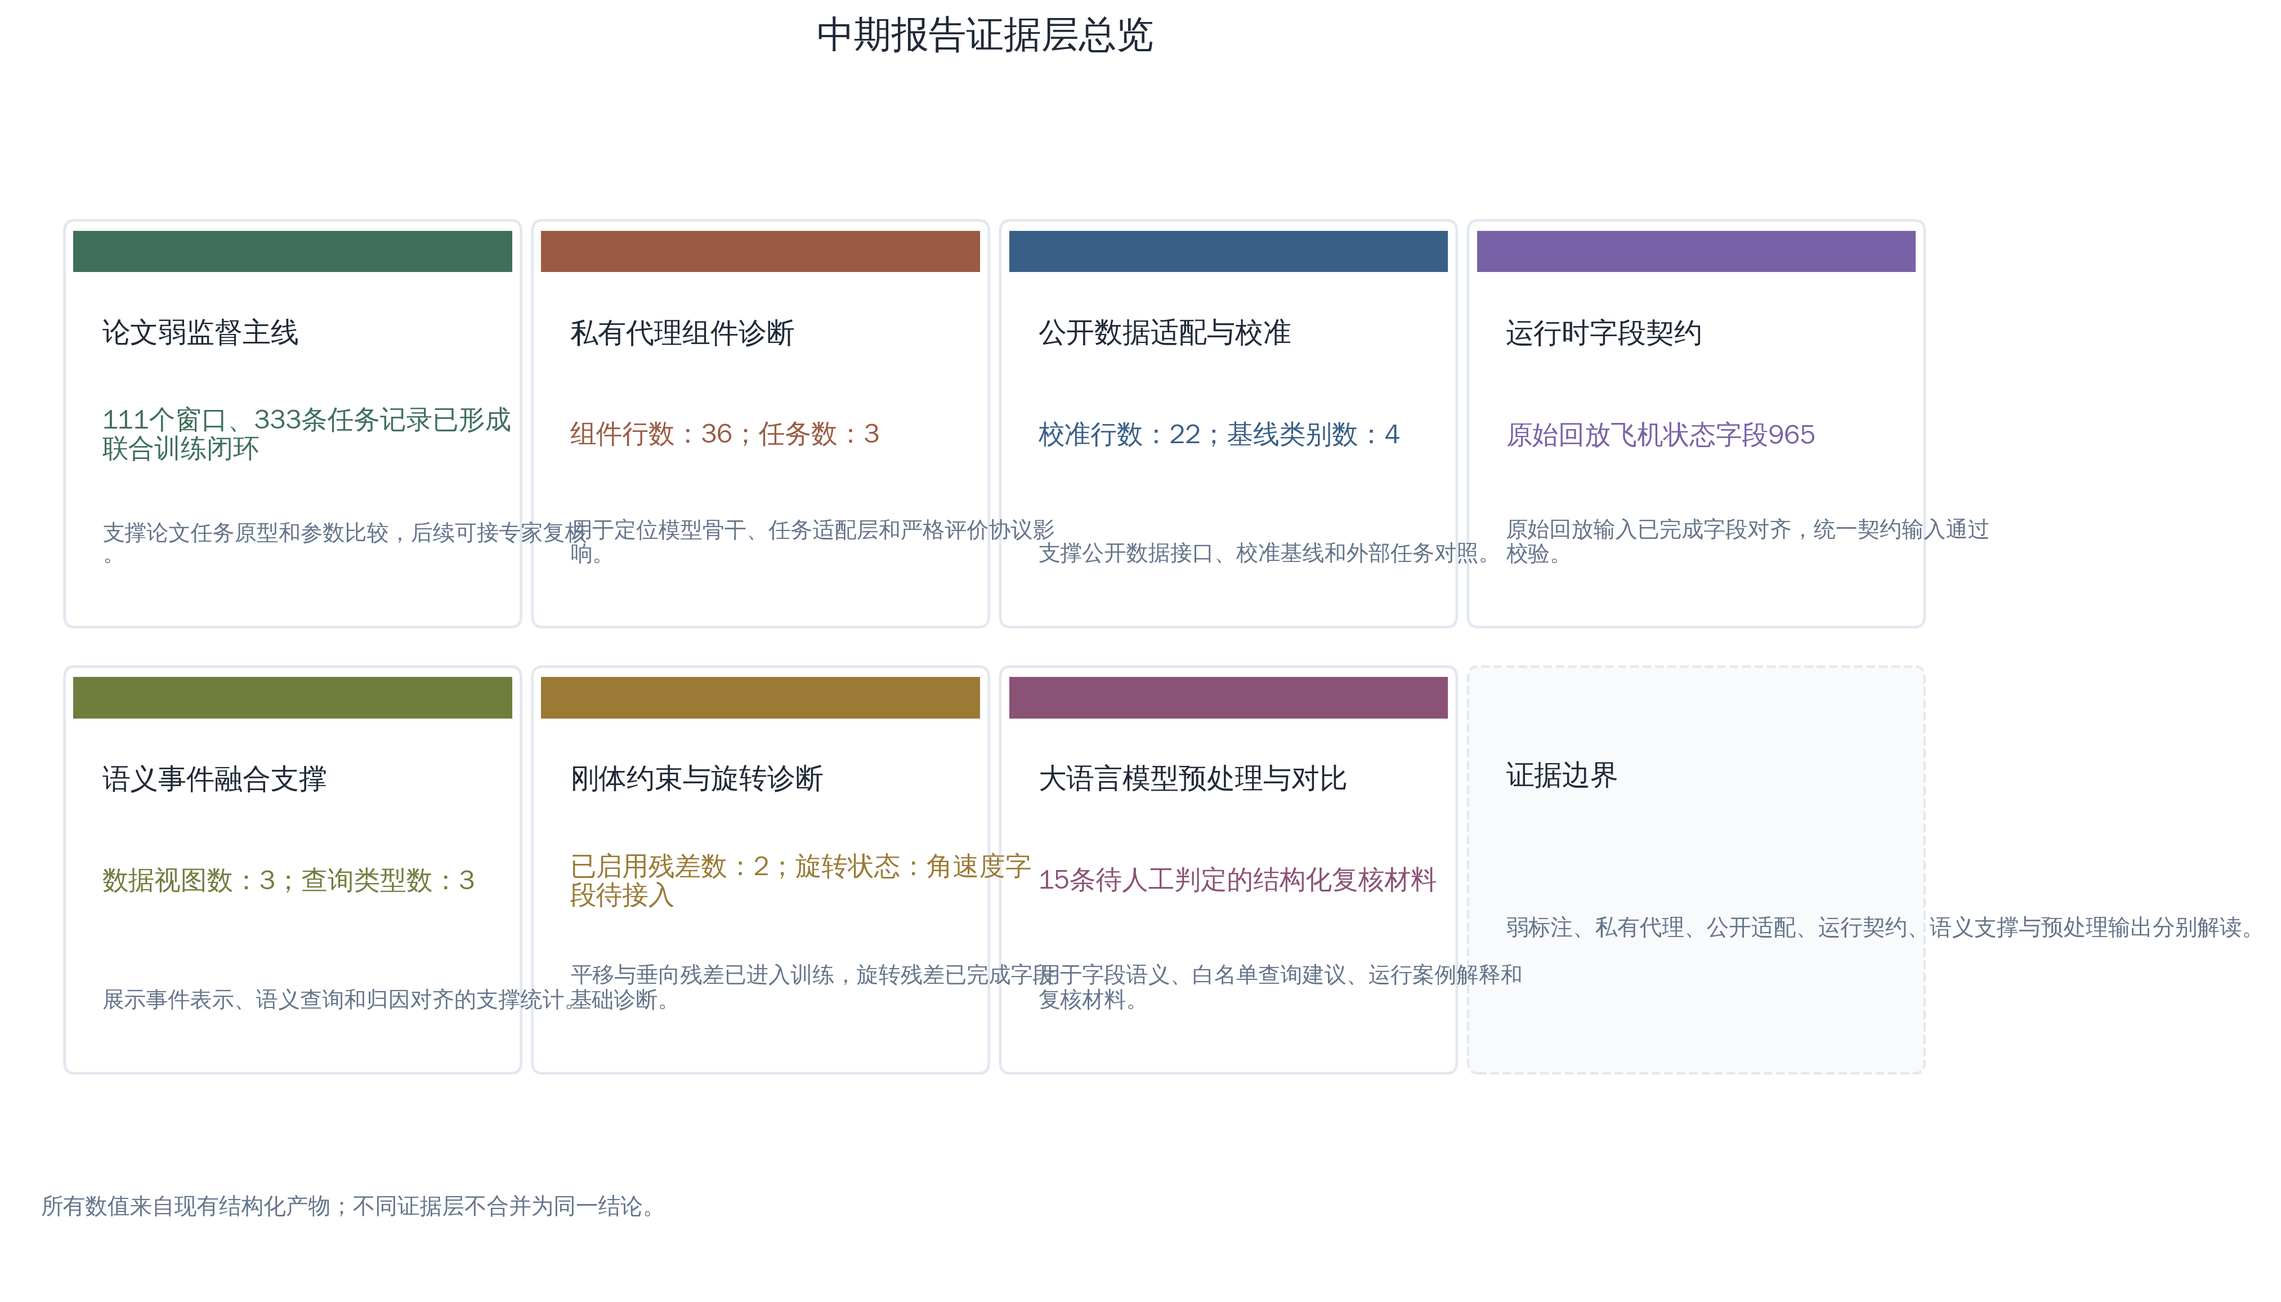
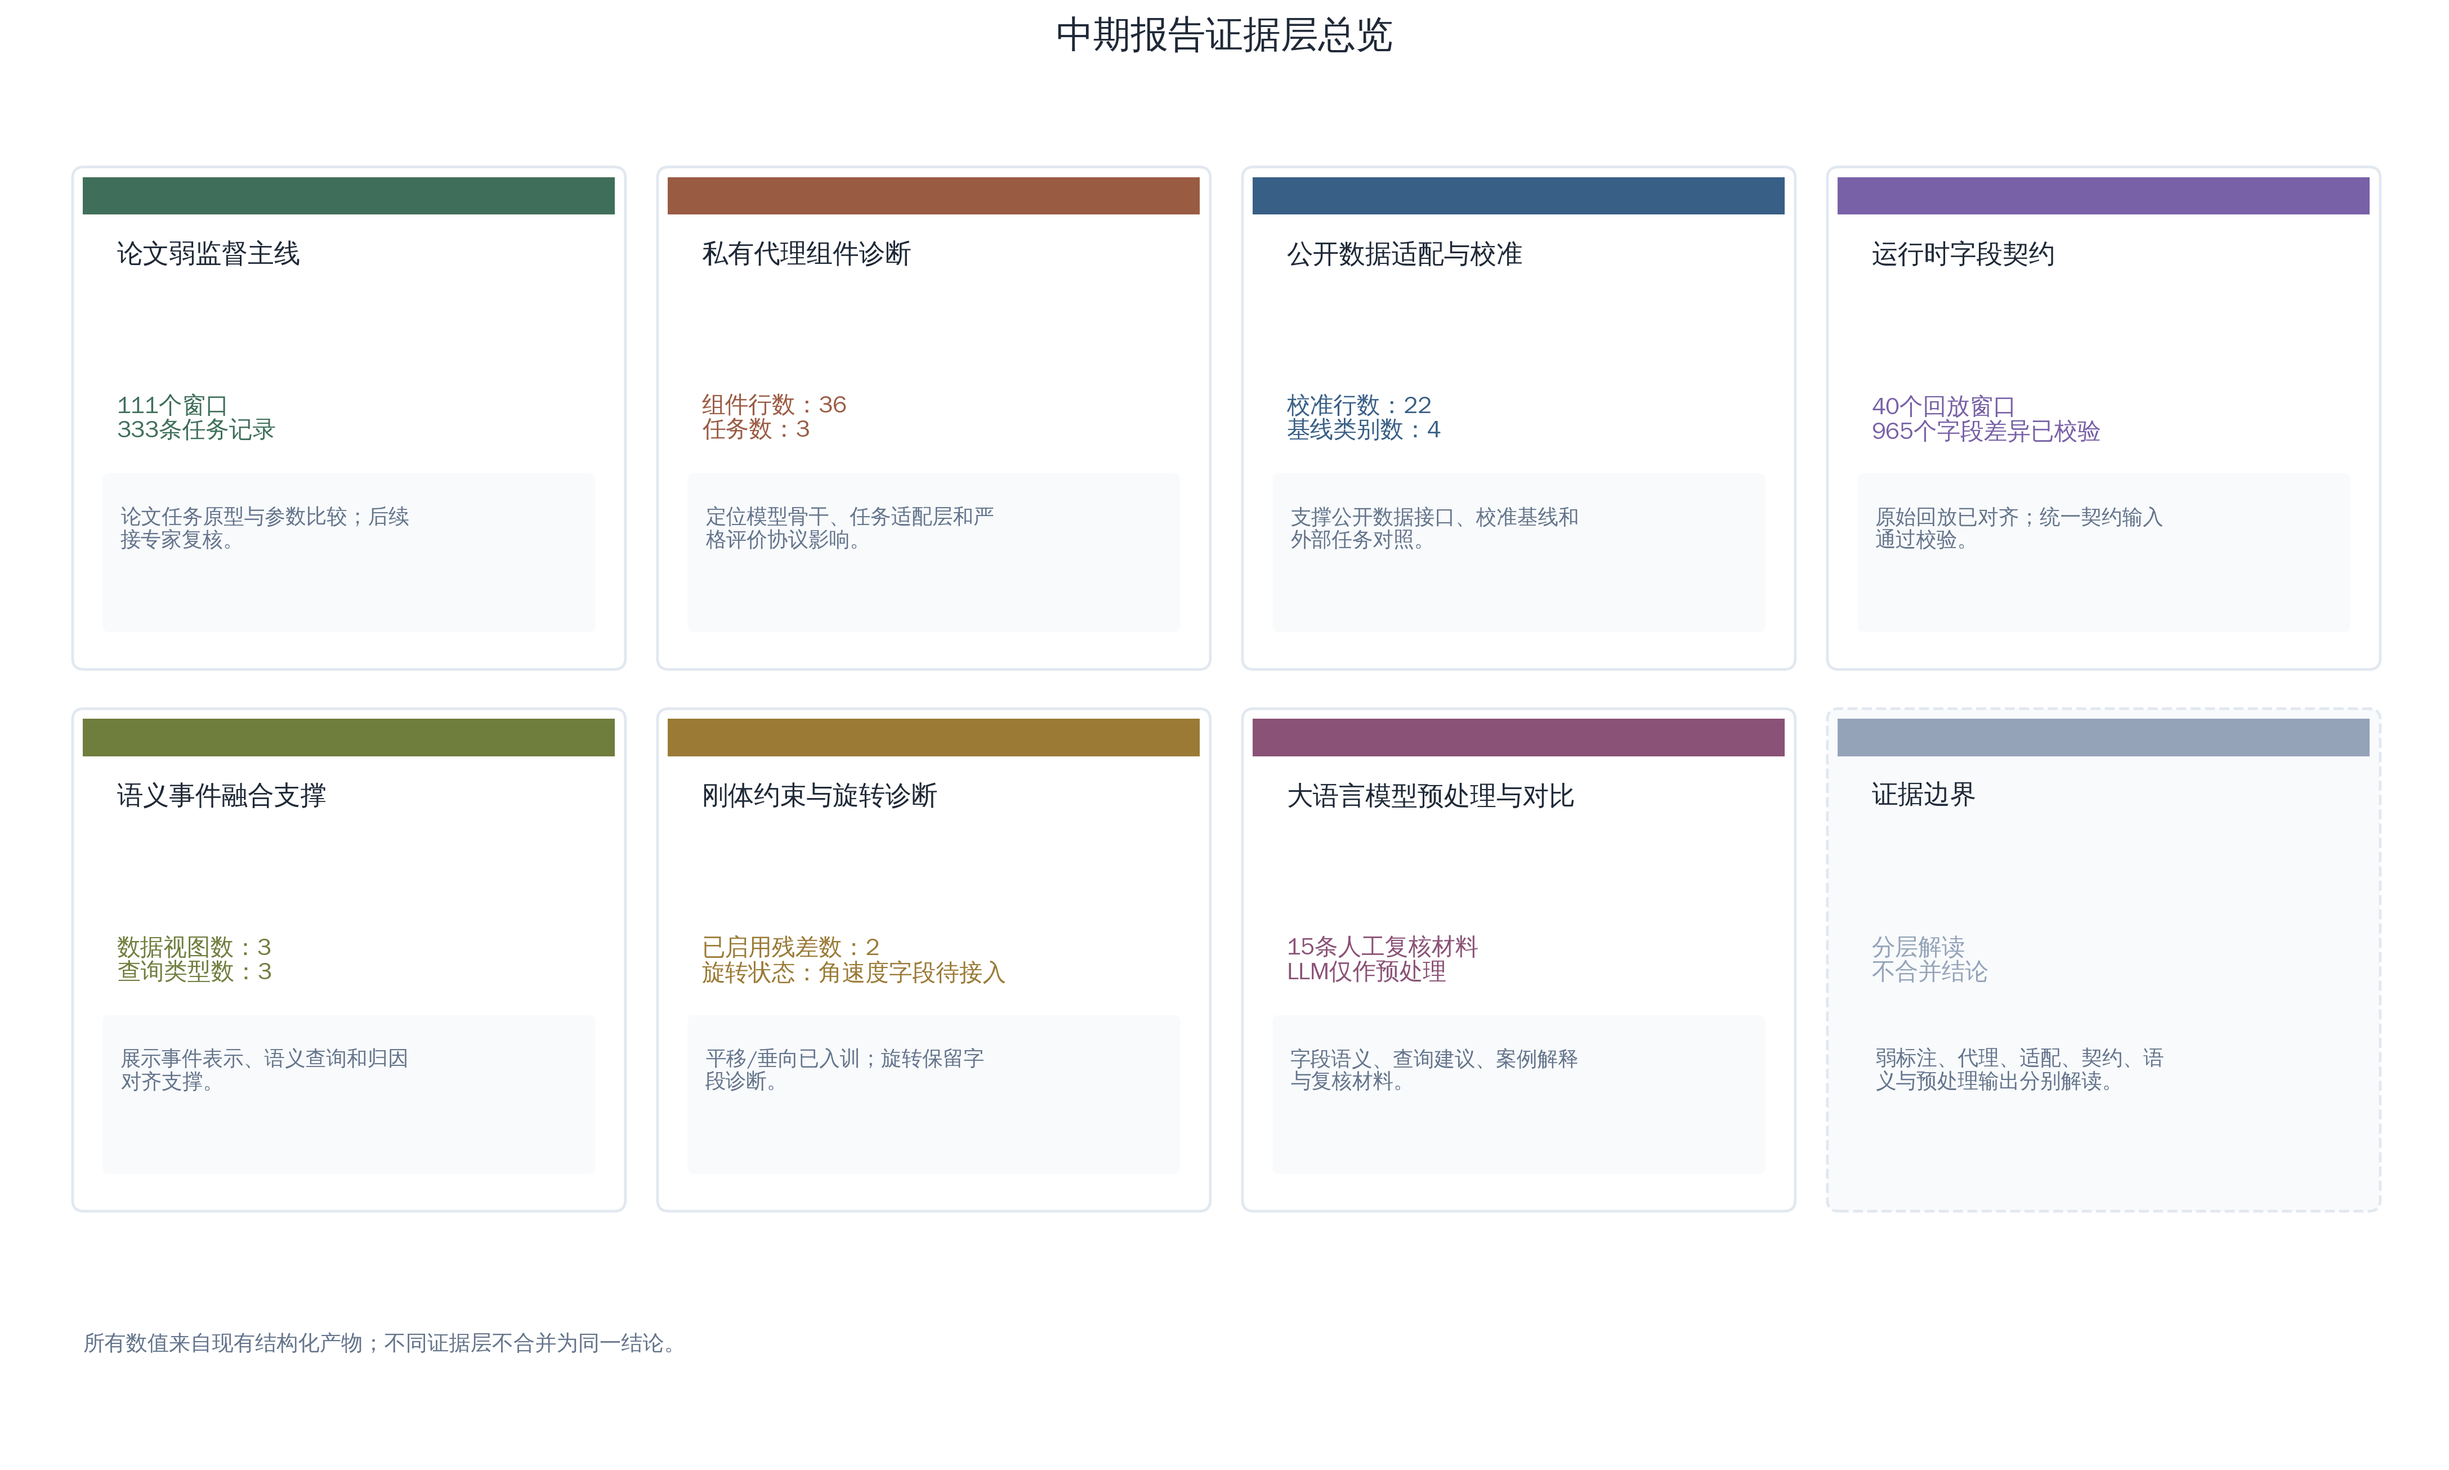
[DOC]update evidence pic

diff --git a/src/chronaris/pipelines/stage_i/evidence/thesis_materials_figures.py b/src/chronaris/pipelines/stage_i/evidence/thesis_materials_figures.py
@@ -104,14 +104,81 @@ def write_thesis_figures(
 def _plot_evidence_layer_overview(path: Path, sources, font, table_paths):
     frame = pd.DataFrame(build_evidence_layer_rows(sources)).sort_values("display_order")
     plt, patches = _import_matplotlib(font)
-    fig, ax = plt.subplots(figsize=(13.8, 7.8))
+    fig, ax = plt.subplots(figsize=(14.6, 8.8))
     ax.set_axis_off()
-    ax.set_xlim(0, 12)
-    ax.set_ylim(0, 6.4)
-    card_w = 2.72
-    card_h = 2.05
-    x_positions = [0.35, 3.25, 6.15, 9.05]
-    y_positions = [3.55, 1.18]
+    ax.set_xlim(0, 12.8)
+    ax.set_ylim(0, 7.35)
+    card_w = 2.82
+    card_h = 2.58
+    x_positions = [0.35, 3.45, 6.55, 9.65]
+    y_positions = [4.25, 1.35]
+
+    def draw_card(
+        *,
+        x: float,
+        y: float,
+        headline: str,
+        quantity: str,
+        role: str,
+        color: str,
+        facecolor: str = "#ffffff",
+        linestyle: str = "-",
+    ) -> None:
+        ax.add_patch(
+            patches.FancyBboxPatch(
+                (x, y),
+                card_w,
+                card_h,
+                boxstyle="round,pad=0.055,rounding_size=0.06",
+                facecolor=facecolor,
+                edgecolor=GRID,
+                lw=1.15,
+                linestyle=linestyle,
+            )
+        )
+        ax.add_patch(
+            patches.Rectangle((x, y + card_h - 0.2), card_w, 0.2, facecolor=color, edgecolor="none")
+        )
+        ax.text(
+            x + 0.18,
+            y + card_h - 0.34,
+            _wrap_text_limited(headline, 12, 2),
+            fontsize=11.2,
+            weight="bold",
+            color=INK,
+            va="top",
+            linespacing=1.1,
+        )
+        ax.text(
+            x + 0.18,
+            y + card_h - 1.16,
+            _wrap_text_limited(quantity, 14, 2),
+            fontsize=10.0,
+            weight="bold",
+            color=color,
+            va="top",
+            linespacing=1.08,
+        )
+        ax.add_patch(
+            patches.FancyBboxPatch(
+                (x + 0.14, y + 0.18),
+                card_w - 0.28,
+                0.78,
+                boxstyle="round,pad=0.035,rounding_size=0.035",
+                facecolor="#f8fafc",
+                edgecolor="none",
+            )
+        )
+        ax.text(
+            x + 0.2,
+            y + 0.82,
+            _wrap_text_limited(role, 14, 3),
+            fontsize=8.8,
+            color=MUTED,
+            va="top",
+            linespacing=1.12,
+        )
+
     rows = frame.to_dict(orient="records")
     for index, row in enumerate(rows):
         row_idx, col_idx = divmod(index, 4)
@@ -119,70 +186,28 @@ def _plot_evidence_layer_overview(path: Path, sources, font, table_paths):
         y = y_positions[row_idx]
         color = LAYER_COLORS.get(str(row["evidence_layer"]), "#7a8793")
         headline, quantity, role = _evidence_card_text(row, font)
-        ax.add_patch(
-            patches.FancyBboxPatch(
-                (x, y),
-                card_w,
-                card_h,
-                boxstyle="round,pad=0.055,rounding_size=0.06",
-                facecolor="#ffffff",
-                edgecolor=GRID,
-                lw=1.15,
-            )
-        )
-        ax.add_patch(
-            patches.Rectangle((x, y + card_h - 0.22), card_w, 0.22, facecolor=color, edgecolor="none")
-        )
-        ax.text(x + 0.18, y + card_h - 0.54, headline, fontsize=12.0, weight="bold", color=INK, va="center")
-        ax.text(
-            x + 0.18,
-            y + card_h - 1.08,
-            _wrap_text(quantity, 18),
-            fontsize=11.2,
-            weight="bold",
-            color=color,
-            va="center",
-            linespacing=1.12,
-        )
-        ax.text(
-            x + 0.18,
-            y + 0.28,
-            _wrap_text(role, 22),
-            fontsize=9.4,
-            color=MUTED,
-            va="bottom",
-            linespacing=1.18,
-        )
-    x = x_positions[3]
-    y = y_positions[1]
-    ax.add_patch(
-        patches.FancyBboxPatch(
-            (x, y),
-            card_w,
-            card_h,
-            boxstyle="round,pad=0.055,rounding_size=0.06",
-            facecolor=PALE,
-            edgecolor=GRID,
-            lw=1.0,
-            linestyle="--",
-        )
-    )
-    ax.text(x + 0.18, y + 1.48, _label(font, "证据边界", "Evidence boundary"), fontsize=12.0, weight="bold", color=INK)
-    ax.text(
-        x + 0.18,
-        y + 0.72,
-        _label(font, "弱标注、私有代理、公开适配、运行契约、语义支撑与预处理输出分别解读。", "Evidence layers are interpreted separately."),
-        fontsize=9.5,
-        color=MUTED,
-        va="center",
-        linespacing=1.18,
+        draw_card(x=x, y=y, headline=headline, quantity=quantity, role=role, color=color)
+
+    draw_card(
+        x=x_positions[3],
+        y=y_positions[1],
+        headline=_label(font, "证据边界", "Evidence boundary"),
+        quantity=_label(font, "分层解读\n不合并结论", "Separate layers\nNo merged conclusion"),
+        role=_label(
+            font,
+            "弱标注、代理、适配、契约、语义与预处理输出分别解读。",
+            "Weak labels, proxies, adapters, contracts, semantics, and preprocessing stay separate.",
+        ),
+        color="#94a3b8",
+        facecolor=PALE,
+        linestyle="--",
     )
     ax.set_title(_label(font, "中期报告证据层总览", "Midterm Evidence Layer Overview"), fontsize=16, weight="bold", color=INK, pad=14)
     ax.text(
-        0.15,
-        0.38,
+        0.35,
+        0.55,
         _label(font, "所有数值来自现有结构化产物；不同证据层不合并为同一结论。", "All values are parsed from existing artifacts; evidence layers remain separate."),
-        fontsize=9.5,
+        fontsize=9.2,
         color=MUTED,
     )
     fig.tight_layout()
@@ -197,7 +222,7 @@ def _plot_evidence_layer_overview(path: Path, sources, font, table_paths):
         metric_definition="Evidence-layer card overview with source-derived counts and report roles.",
         recommended_placement="appendix_or_supporting",
         replaces_problem="evidence_layer_overview is redrawn as a 2x4 report-readable card overview.",
-        min_font_pt=9.4,
+        min_font_pt=8.8,
     )
 
 
@@ -1150,16 +1175,43 @@ def _evidence_card_text(row: Mapping[str, object], font: PlotFontSelection) -> t
     layer = str(row.get("evidence_layer") or "")
     headline = _label(font, str(row.get("layer_title_cn")), str(row.get("layer_title")))
     if layer == "thesis_weak_label":
-        quantity = f"{row.get('primary_metric_value')}个窗口、{row.get('secondary_metric_value')}条任务记录已形成联合训练闭环"
+        quantity = f"{row.get('primary_metric_value')}个窗口\n{row.get('secondary_metric_value')}条任务记录"
     elif layer == "runtime_schema":
-        quantity = f"原始回放飞机状态字段{row.get('secondary_metric_value')}"
+        quantity = f"{row.get('primary_metric_value')}个回放窗口\n{row.get('secondary_metric_value')}个字段差异已校验"
     elif layer == "llm_preprocessing":
         review_count = _extract_first_int(row.get("key_status"))
-        quantity = f"{review_count}条待人工判定的结构化复核材料" if review_count is not None else str(row.get("key_status"))
+        quantity = f"{review_count}条人工复核材料\nLLM仅作预处理" if review_count is not None else str(row.get("key_status"))
     else:
-        quantity = f"{_metric_name_cn(row.get('primary_metric_name'))}：{row.get('primary_metric_value')}；{_metric_name_cn(row.get('secondary_metric_name'))}：{row.get('secondary_metric_value')}"
-    role = str(row.get("boundary_cn") or row.get("key_status") or "")
+        quantity = (
+            f"{_metric_name_cn(row.get('primary_metric_name'))}：{row.get('primary_metric_value')}\n"
+            f"{_metric_name_cn(row.get('secondary_metric_name'))}：{row.get('secondary_metric_value')}"
+        )
+    role = _evidence_card_role(row, font)
     return headline, quantity, role
+
+
+def _evidence_card_role(row: Mapping[str, object], font: PlotFontSelection) -> str:
+    layer = str(row.get("evidence_layer") or "")
+    fallback = str(row.get("boundary_cn") or row.get("key_status") or "")
+    compact_cn = {
+        "thesis_weak_label": "论文任务原型与参数比较；后续接专家复核。",
+        "private_proxy": "定位模型骨干、任务适配层和严格评价协议影响。",
+        "public_adapter_calibration": "支撑公开数据接口、校准基线和外部任务对照。",
+        "runtime_schema": "原始回放已对齐；统一契约输入通过校验。",
+        "semantic_support": "展示事件表示、语义查询和归因对齐支撑。",
+        "rigid_body": "平移/垂向已入训；旋转保留字段诊断。",
+        "llm_preprocessing": "字段语义、查询建议、案例解释与复核材料。",
+    }
+    compact_ascii = {
+        "thesis_weak_label": "Prototype and parameter evidence; expert review remains separate.",
+        "private_proxy": "Locates backbone, task input, and strict protocol effects.",
+        "public_adapter_calibration": "Supports public adapters, calibration baselines, and external task checks.",
+        "runtime_schema": "Replay inputs are aligned; canonical contract passes validation.",
+        "semantic_support": "Shows event representation, semantic query, and attribution support.",
+        "rigid_body": "Translation and vertical residuals are active; rotation remains diagnostic.",
+        "llm_preprocessing": "Field semantics, query advice, case explanation, and review packets.",
+    }
+    return _label(font, compact_cn.get(layer, fallback), compact_ascii.get(layer, fallback))
 
 
 def _extract_first_int(value: object) -> int | None:
@@ -1570,6 +1622,33 @@ def _wrap_text(text: str, width: int) -> str:
             wrap(value, width=width, break_long_words=False, break_on_hyphens=False)[:3]
         )
     return "\n".join(value[index : index + width] for index in range(0, min(len(value), width * 3), width))
+
+
+def _wrap_text_limited(text: str, width: int, max_lines: int) -> str:
+    value = str(text or "")
+    lines: list[str] = []
+    for part in value.splitlines() or [""]:
+        if not part:
+            lines.append("")
+        elif " " in part:
+            lines.extend(wrap(part, width=width, break_long_words=False, break_on_hyphens=False))
+        else:
+            lines.extend(part[index : index + width] for index in range(0, len(part), width))
+    if len(lines) <= max_lines:
+        return "\n".join(lines)
+    clipped = lines[:max_lines]
+    clipped[-1] = _truncate_text_line(clipped[-1], width)
+    return "\n".join(clipped)
+
+
+def _truncate_text_line(text: str, width: int) -> str:
+    if len(text) <= width:
+        return text
+    if width <= 3:
+        return "." * width
+    if " " in text:
+        return shorten(text, width=width, placeholder="...")
+    return f"{text[: width - 3]}..."
 
 
 def _variant_color(role: str) -> str:
